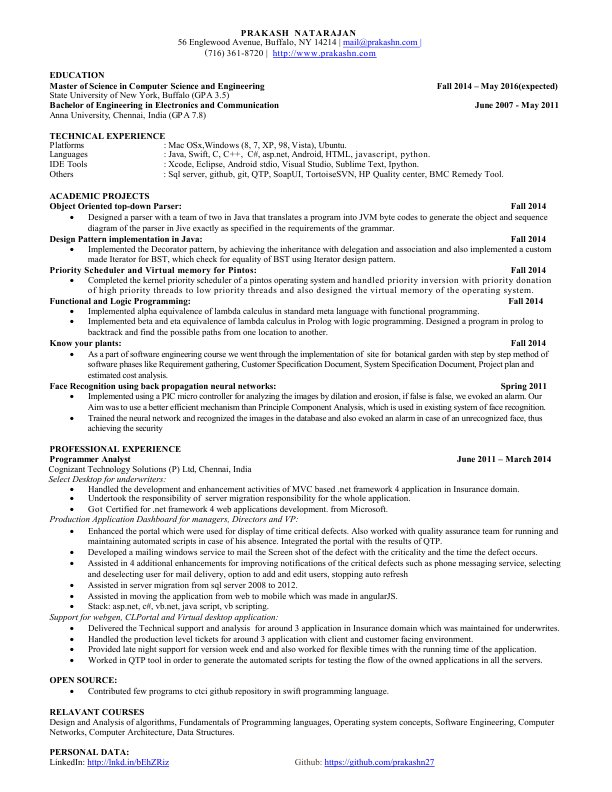
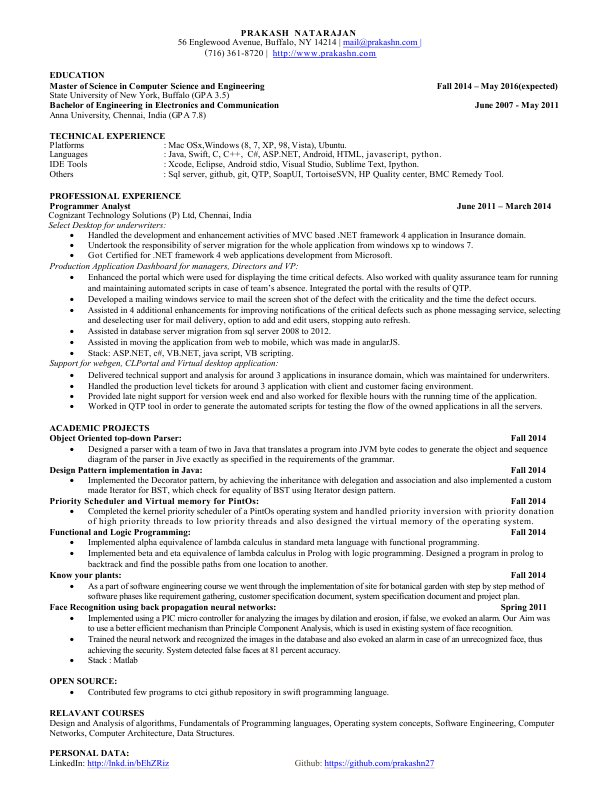
changed resume

Changed region(s): [[0.0621, 0.2424, 0.9003, 0.9697], [0.4346, 0.1818, 0.7141, 0.2121]]

diff --git a/Resume/Prakash_Natarajan_resume.htm b/Resume/Prakash_Natarajan_resume.htm
@@ -8,7 +8,7 @@
 
 body {margin-top: 0px;margin-left: 0px;}
 
-#page_1 {position:relative; overflow: hidden;margin: 36px 0px 31px 65px;padding: 0px;border: none;width: 751px;}
+#page_1 {position:relative; overflow: hidden;margin: 36px 0px 29px 65px;padding: 0px;border: none;width: 751px;}
 
 
 
@@ -28,66 +28,70 @@ body {margin-top: 0px;margin-left: 0px;}
 .ft11{font: bold 10px 'Times New Roman';line-height: 12px;}
 .ft12{font: 12px 'Times New Roman';line-height: 13px;}
 .ft13{font: 12px 'Times New Roman';line-height: 14px;}
-.ft14{font: bold 12px 'Times New Roman';line-height: 13px;}
-.ft15{font: 10px 'Times New Roman';line-height: 14px;}
-.ft16{font: italic 12px 'Times New Roman';line-height: 12px;}
-.ft17{font: italic 12px 'Times New Roman';line-height: 14px;}
-.ft18{font: 11px 'Times New Roman';color: #473b2c;line-height: 14px;}
-.ft19{font: 11px 'Times New Roman';text-decoration: underline;color: #0000ff;line-height: 14px;}
-.ft20{font: 11px 'Times New Roman';color: #0000ff;line-height: 14px;}
+.ft14{font: italic 12px 'Times New Roman';line-height: 12px;}
+.ft15{font: italic 12px 'Times New Roman';line-height: 13px;}
+.ft16{font: italic 12px 'Times New Roman';line-height: 14px;}
+.ft17{font: bold 12px 'Times New Roman';line-height: 13px;}
+.ft18{font: 11px 'Times New Roman';line-height: 14px;}
+.ft19{font: 11px 'Times New Roman';color: #473b2c;line-height: 14px;}
+.ft20{font: 11px 'Times New Roman';text-decoration: underline;color: #0000ff;line-height: 14px;}
+.ft21{font: 11px 'Times New Roman';color: #0000ff;line-height: 14px;}
 
 .p0{text-align: left;padding-left: 256px;margin-top: 0px;margin-bottom: 0px;}
 .p1{text-align: left;padding-left: 208px;padding-right: 253px;margin-top: 0px;margin-bottom: 0px;text-indent: -35px;}
 .p2{text-align: left;margin-top: 0px;margin-bottom: 0px;white-space: nowrap;}
 .p3{text-align: left;padding-left: 51px;margin-top: 0px;margin-bottom: 0px;white-space: nowrap;}
-.p4{text-align: left;padding-left: 98px;margin-top: 0px;margin-bottom: 0px;white-space: nowrap;}
-.p5{text-align: justify;padding-left: 52px;padding-right: 86px;margin-top: 0px;margin-bottom: 0px;}
-.p6{text-align: justify;padding-left: 52px;padding-right: 80px;margin-top: 0px;margin-bottom: 0px;}
-.p7{text-align: justify;padding-left: 52px;padding-right: 81px;margin-top: 0px;margin-bottom: 0px;}
-.p8{text-align: justify;padding-left: 53px;margin-top: 1px;margin-bottom: 0px;}
-.p9{text-align: justify;padding-left: 52px;padding-right: 92px;margin-top: 0px;margin-bottom: 0px;}
-.p10{text-align: left;padding-left: 52px;padding-right: 85px;margin-top: 0px;margin-bottom: 0px;}
-.p11{text-align: justify;padding-left: 52px;padding-right: 83px;margin-top: 2px;margin-bottom: 0px;}
-.p12{text-align: justify;padding-left: 52px;padding-right: 93px;margin-top: 0px;margin-bottom: 0px;}
-.p13{text-align: left;padding-left: 1px;margin-top: 11px;margin-bottom: 0px;}
-.p14{text-align: left;padding-left: 1px;margin-top: 0px;margin-bottom: 0px;}
-.p15{text-align: left;margin-top: 0px;margin-bottom: 0px;}
-.p16{text-align: justify;padding-left: 53px;margin-top: 0px;margin-bottom: 0px;}
-.p17{text-align: justify;padding-left: 52px;padding-right: 72px;margin-top: 1px;margin-bottom: 0px;}
-.p18{text-align: justify;padding-left: 52px;margin-top: 2px;margin-bottom: 0px;}
-.p19{text-align: justify;padding-left: 52px;padding-right: 68px;margin-top: 0px;margin-bottom: 0px;}
-.p20{text-align: justify;padding-left: 52px;margin-top: 0px;margin-bottom: 0px;}
-.p21{text-align: justify;padding-left: 53px;margin-top: 3px;margin-bottom: 0px;}
-.p22{text-align: left;padding-left: 1px;margin-top: 12px;margin-bottom: 0px;}
-.p23{text-align: left;padding-left: 1px;padding-right: 77px;margin-top: 1px;margin-bottom: 0px;}
+.p4{text-align: left;padding-left: 1px;margin-top: 13px;margin-bottom: 0px;}
+.p5{text-align: right;padding-right: 3px;margin-top: 0px;margin-bottom: 0px;white-space: nowrap;}
+.p6{text-align: left;padding-left: 433px;margin-top: 0px;margin-bottom: 0px;white-space: nowrap;}
+.p7{text-align: left;margin-top: 0px;margin-bottom: 0px;}
+.p8{text-align: justify;padding-left: 53px;margin-top: 0px;margin-bottom: 0px;}
+.p9{text-align: justify;padding-left: 53px;margin-top: 2px;margin-bottom: 0px;}
+.p10{text-align: left;padding-left: 1px;margin-top: 0px;margin-bottom: 0px;}
+.p11{text-align: justify;padding-left: 52px;padding-right: 72px;margin-top: 1px;margin-bottom: 0px;}
+.p12{text-align: justify;padding-left: 52px;margin-top: 1px;margin-bottom: 0px;}
+.p13{text-align: justify;padding-left: 52px;padding-right: 68px;margin-top: 0px;margin-bottom: 0px;}
+.p14{text-align: justify;padding-left: 52px;margin-top: 0px;margin-bottom: 0px;}
+.p15{text-align: justify;padding-left: 53px;margin-top: 1px;margin-bottom: 0px;}
+.p16{text-align: justify;padding-left: 52px;padding-right: 86px;margin-top: 0px;margin-bottom: 0px;}
+.p17{text-align: justify;padding-left: 52px;padding-right: 80px;margin-top: 0px;margin-bottom: 0px;}
+.p18{text-align: justify;padding-left: 52px;padding-right: 77px;margin-top: 0px;margin-bottom: 0px;}
+.p19{text-align: justify;padding-left: 52px;padding-right: 92px;margin-top: 0px;margin-bottom: 0px;}
+.p20{text-align: justify;padding-left: 52px;padding-right: 85px;margin-top: 2px;margin-bottom: 0px;}
+.p21{text-align: justify;padding-left: 52px;padding-right: 93px;margin-top: 1px;margin-bottom: 0px;}
+.p22{text-align: left;padding-left: 1px;margin-top: 11px;margin-bottom: 0px;}
+.p23{text-align: justify;padding-left: 53px;margin-top: 3px;margin-bottom: 0px;}
+.p24{text-align: left;padding-left: 1px;padding-right: 77px;margin-top: 2px;margin-bottom: 0px;}
 
 .td0{padding: 0px;margin: 0px;width: 152px;vertical-align: bottom;}
 .td1{padding: 0px;margin: 0px;width: 365px;vertical-align: bottom;}
 .td2{padding: 0px;margin: 0px;width: 162px;vertical-align: bottom;}
 .td3{padding: 0px;margin: 0px;width: 517px;vertical-align: bottom;}
 .td4{padding: 0px;margin: 0px;width: 527px;vertical-align: bottom;}
-.td5{padding: 0px;margin: 0px;width: 615px;vertical-align: bottom;}
-.td6{padding: 0px;margin: 0px;width: 47px;vertical-align: bottom;}
-.td7{padding: 0px;margin: 0px;width: 612px;vertical-align: bottom;}
-.td8{padding: 0px;margin: 0px;width: 602px;vertical-align: bottom;}
-.td9{padding: 0px;margin: 0px;width: 61px;vertical-align: bottom;}
-.td10{padding: 0px;margin: 0px;width: 327px;vertical-align: bottom;}
-.td11{padding: 0px;margin: 0px;width: 186px;vertical-align: bottom;}
+.td5{padding: 0px;margin: 0px;width: 112px;vertical-align: bottom;}
+.td6{padding: 0px;margin: 0px;width: 558px;vertical-align: bottom;}
+.td7{padding: 0px;margin: 0px;width: 615px;vertical-align: bottom;}
+.td8{padding: 0px;margin: 0px;width: 48px;vertical-align: bottom;}
+.td9{padding: 0px;margin: 0px;width: 47px;vertical-align: bottom;}
+.td10{padding: 0px;margin: 0px;width: 602px;vertical-align: bottom;}
+.td11{padding: 0px;margin: 0px;width: 61px;vertical-align: bottom;}
+.td12{padding: 0px;margin: 0px;width: 327px;vertical-align: bottom;}
+.td13{padding: 0px;margin: 0px;width: 186px;vertical-align: bottom;}
 
 .tr0{height: 16px;}
 .tr1{height: 14px;}
 .tr2{height: 12px;}
 .tr3{height: 13px;}
 .tr4{height: 27px;}
-.tr5{height: 29px;}
-.tr6{height: 15px;}
+.tr5{height: 15px;}
 
 .t0{width: 679px;margin-left: 1px;margin-top: 10px;font: 12px 'Times New Roman';}
-.t1{width: 662px;margin-left: 1px;font: bold 11px 'Times New Roman';}
-.t2{width: 659px;margin-left: 1px;font: bold 12px 'Times New Roman';}
-.t3{width: 662px;margin-left: 1px;font: bold 12px 'Times New Roman';}
-.t4{width: 663px;margin-left: 1px;font: bold 10px 'Times New Roman';}
-.t5{width: 513px;margin-left: 1px;margin-top: 8px;font: 11px 'Times New Roman';color: #473b2c;}
+.t1{width: 670px;font: 12px 'Times New Roman';}
+.t2{width: 663px;margin-left: 1px;margin-top: 10px;font: bold 12px 'Times New Roman';}
+.t3{width: 662px;margin-left: 1px;font: bold 11px 'Times New Roman';}
+.t4{width: 662px;margin-left: 1px;font: bold 12px 'Times New Roman';}
+.t5{width: 663px;margin-left: 1px;font: bold 10px 'Times New Roman';}
+.t6{width: 513px;margin-left: 1px;margin-top: 7px;font: 11px 'Times New Roman';color: #473b2c;}
 
 </STYLE>
 </HEAD>
@@ -131,8 +135,7 @@ body {margin-top: 0px;margin-left: 0px;}
 </TR>
 <TR>
 	<TD class="tr2 td0"><P class="p2 ft10">Languages</P></TD>
-	<TD class="tr2 td1"><P class="p2 ft10">: Java, Swift, C, C++, C#, asp.net, Android, HTML, javascript, python.</P></TD>
-	<TD class="tr2 td2"><P class="p2 ft7">&nbsp;</P></TD>
+	<TD colspan=2 class="tr2 td4"><P class="p2 ft10">: Java, Swift, C, C++, C#, ASP.NET, Android, HTML, javascript, python.</P></TD>
 </TR>
 <TR>
 	<TD class="tr1 td0"><P class="p2 ft13">IDE Tools</P></TD>
@@ -140,88 +143,98 @@ body {margin-top: 0px;margin-left: 0px;}
 	<TD class="tr1 td2"><P class="p2 ft7">&nbsp;</P></TD>
 </TR>
 <TR>
-	<TD class="tr3 td0"><P class="p2 ft12">Others</P></TD>
-	<TD colspan=2 class="tr3 td4"><P class="p2 ft12">: Sql server, github, git, QTP, SoapUI, TortoiseSVN, HP Quality center, BMC Remedy Tool.</P></TD>
-</TR>
-<TR>
-	<TD class="tr5 td0"><P class="p2 ft6">ACADEMIC PROJECTS</P></TD>
-	<TD class="tr5 td1"><P class="p2 ft7">&nbsp;</P></TD>
-	<TD class="tr5 td2"><P class="p2 ft7">&nbsp;</P></TD>
-</TR>
-<TR>
-	<TD colspan=2 class="tr1 td3"><P class="p2 ft8">Object Oriented <NOBR>top-down</NOBR> Parser:</P></TD>
-	<TD class="tr1 td2"><P class="p4 ft8">Fall 2014</P></TD>
+	<TD class="tr5 td0"><P class="p2 ft3">Others</P></TD>
+	<TD colspan=2 class="tr5 td4"><P class="p2 ft3">: Sql server, github, git, QTP, SoapUI, TortoiseSVN, HP Quality center, BMC Remedy Tool.</P></TD>
 </TR>
 </TABLE>
-<P class="p5 ft13">Designed a parser with a team of two in Java that translates a program into JVM byte codes to generate the object and sequence diagram of the parser in Jive exactly as specified in the requirements of the grammar.</P>
+<P class="p4 ft8">PROFESSIONAL EXPERIENCE</P>
 <TABLE cellpadding=0 cellspacing=0 class="t1">
 <TR>
-	<TD class="tr1 td5"><P class="p2 ft8">Design Pattern implementation in Java:</P></TD>
-	<TD class="tr1 td6"><P class="p2 ft9">Fall 2014</P></TD>
+	<TD class="tr1 td5"><P class="p5 ft8">Programmer Analyst</P></TD>
+	<TD class="tr1 td6"><P class="p6 ft9">June 2011 – March 2014</P></TD>
 </TR>
-</TABLE>
-<P class="p6 ft13">Implemented the Decorator pattern, by achieving the inheritance with delegation and association and also implemented a custom made Iterator for BST, which check for equality of BST using Iterator design pattern.</P>
-<TABLE cellpadding=0 cellspacing=0 class="t1">
 <TR>
-	<TD class="tr1 td5"><P class="p2 ft8">Priority Scheduler and Virtual memory for Pintos:</P></TD>
-	<TD class="tr1 td6"><P class="p2 ft9">Fall 2014</P></TD>
+	<TD class="tr2 td5"><P class="p5 ft10">Cognizant Technology</P></TD>
+	<TD class="tr2 td6"><P class="p2 ft10">Solutions (P) Ltd, Chennai, India</P></TD>
 </TR>
 </TABLE>
-<P class="p7 ft13">Completed the kernel priority scheduler of a pintos operating system and handled priority inversion with priority donation of high priority threads to low priority threads and also designed the virtual memory of the operating system.</P>
+<P class="p7 ft14">Select Desktop for underwriters:</P>
+<P class="p8 ft12">Handled the development and enhancement activities of MVC based .NET framework 4 application in Insurance domain.</P>
+<P class="p8 ft12">Undertook the responsibility of server migration for the whole application from windows xp to windows 7.</P>
+<P class="p9 ft3">Got Certified for .NET framework 4 web applications development from Microsoft.</P>
+<P class="p10 ft15">Production Application Dashboard for managers, Directors and VP:</P>
+<P class="p11 ft13">Enhanced the portal which were used for displaying the time critical defects. Also worked with quality assurance team for running and maintaining automated scripts in case of team’s absence. Integrated the portal with the results of QTP.</P>
+<P class="p12 ft13">Developed a mailing windows service to mail the screen shot of the defect with the criticality and the time the defect occurs.</P>
+<P class="p13 ft13">Assisted in 4 additional enhancements for improving notifications of the critical defects such as phone messaging service, selecting and deselecting user for mail delivery, option to add and edit users, stopping auto refresh.</P>
+<P class="p12 ft13">Assisted in database server migration from sql server 2008 to 2012.</P>
+<P class="p14 ft13">Assisted in moving the application from web to mobile, which was made in angularJS.</P>
+<P class="p8 ft13">Stack: ASP.NET, c#, VB.NET, java script, VB scripting.</P>
+<P class="p10 ft16">Support for webgen, CLPortal and Virtual desktop application:</P>
+<P class="p9 ft3">Delivered technical support and analysis for around 3 applications in insurance domain, which was maintained for underwriters.</P>
+<P class="p8 ft12">Handled the production level tickets for around 3 application with client and customer facing environment.</P>
+<P class="p14 ft13">Provided late night support for version week end and also worked for flexible hours with the running time of the application.</P>
+<P class="p15 ft3">Worked in QTP tool in order to generate the automated scripts for testing the flow of the owned applications in all the servers.</P>
 <TABLE cellpadding=0 cellspacing=0 class="t2">
 <TR>
-	<TD class="tr3 td7"><P class="p2 ft14">Functional and Logic Programming:</P></TD>
-	<TD class="tr3 td6"><P class="p2 ft9">Fall 2014</P></TD>
+	<TD class="tr0 td7"><P class="p2 ft6">ACADEMIC PROJECTS</P></TD>
+	<TD class="tr0 td8"><P class="p2 ft7">&nbsp;</P></TD>
+</TR>
+<TR>
+	<TD class="tr1 td7"><P class="p2 ft8">Object Oriented <NOBR>top-down</NOBR> Parser:</P></TD>
+	<TD class="tr1 td8"><P class="p2 ft8">Fall 2014</P></TD>
 </TR>
 </TABLE>
-<P class="p8 ft3">Implemented alpha equivalence of lambda calculus in standard meta language with functional programming.</P>
-<P class="p9 ft13">Implemented beta and eta equivalence of lambda calculus in Prolog with logic programming. Designed a program in prolog to backtrack and find the possible paths from one location to another.</P>
+<P class="p16 ft13">Designed a parser with a team of two in Java that translates a program into JVM byte codes to generate the object and sequence diagram of the parser in Jive exactly as specified in the requirements of the grammar.</P>
 <TABLE cellpadding=0 cellspacing=0 class="t3">
 <TR>
-	<TD class="tr3 td5"><P class="p2 ft14">Know your plants:</P></TD>
-	<TD class="tr3 td6"><P class="p2 ft9">Fall 2014</P></TD>
+	<TD class="tr1 td7"><P class="p2 ft8">Design Pattern implementation in Java:</P></TD>
+	<TD class="tr1 td9"><P class="p2 ft9">Fall 2014</P></TD>
 </TR>
 </TABLE>
-<P class="p10 ft13">As a part of software engineering course we went through the implementation of site for botanical garden with step by step method of software phases like Requirement gathering, Customer Specification Document, System Specification Document, Project plan and estimated cost analysis.</P>
+<P class="p17 ft13">Implemented the Decorator pattern, by achieving the inheritance with delegation and association and also implemented a custom made Iterator for BST, which check for equality of BST using Iterator design pattern.</P>
 <TABLE cellpadding=0 cellspacing=0 class="t4">
 <TR>
-	<TD class="tr6 td8"><P class="p2 ft6">Face Recognition using back propagation neural networks:</P></TD>
-	<TD class="tr6 td9"><P class="p2 ft11">Spring 2011</P></TD>
+	<TD class="tr3 td7"><P class="p2 ft17">Priority Scheduler and Virtual memory for PintOs:</P></TD>
+	<TD class="tr3 td9"><P class="p2 ft9">Fall 2014</P></TD>
 </TR>
 </TABLE>
-<P class="p11 ft15">Implemented using a PIC micro controller for analyzing the images by dilation and erosion, if false is false, we evoked an alarm. Our Aim was to use a better efficient mechanism than Principle Component Analysis, which is used in existing system of face recognition.</P>
-<P class="p12 ft3">Trained the neural network and recognized the images in the database and also evoked an alarm in case of an unrecognized face, thus achieving the security</P>
-<P class="p13 ft8">PROFESSIONAL EXPERIENCE</P>
-<P class="p14 ft14">Programmer Analyst June 2011 – March 2014</P>
-<P class="p15 ft12">Cognizant Technology Solutions (P) Ltd, Chennai, India</P>
-<P class="p15 ft16">Select Desktop for underwriters:</P>
-<P class="p16 ft13">Handled the development and enhancement activities of MVC based .net framework 4 application in Insurance domain.</P>
-<P class="p16 ft12">Undertook the responsibility of server migration responsibility for the whole application.</P>
-<P class="p16 ft13">Got Certified for .net framework 4 web applications development. from Microsoft.</P>
-<P class="p14 ft17">Production Application Dashboard for managers, Directors and VP:</P>
-<P class="p17 ft13">Enhanced the portal which were used for display of time critical defects. Also worked with quality assurance team for running and maintaining automated scripts in case of his absence. Integrated the portal with the results of QTP.</P>
-<P class="p18 ft3">Developed a mailing windows service to mail the Screen shot of the defect with the criticality and the time the defect occurs.</P>
-<P class="p19 ft13">Assisted in 4 additional enhancements for improving notifications of the critical defects such as phone messaging service, selecting and deselecting user for mail delivery, option to add and edit users, stopping auto refresh</P>
-<P class="p20 ft3">Assisted in server migration from sql server 2008 to 2012.</P>
-<P class="p20 ft13">Assisted in moving the application from web to mobile which was made in angularJS.</P>
-<P class="p16 ft13">Stack: asp.net, c#, vb.net, java script, vb scripting.</P>
-<P class="p14 ft17">Support for webgen, CLPortal and Virtual desktop application:</P>
-<P class="p8 ft3">Delivered the Technical support and analysis for around 3 application in Insurance domain which was maintained for underwrites.</P>
-<P class="p16 ft13">Handled the production level tickets for around 3 application with client and customer facing environment.</P>
-<P class="p20 ft12">Provided late night support for version week end and also worked for flexible times with the running time of the application.</P>
-<P class="p16 ft3">Worked in QTP tool in order to generate the automated scripts for testing the flow of the owned applications in all the servers.</P>
-<P class="p13 ft14">OPEN SOURCE:</P>
-<P class="p21 ft3">Contributed few programs to ctci github repository in swift programming language.</P>
-<P class="p22 ft8">RELAVANT COURSES</P>
-<P class="p23 ft3">Design and Analysis of algorithms, Fundamentals of Programming languages, Operating system concepts, Software Engineering, Computer Networks, Computer Architecture, Data Structures.</P>
+<P class="p18 ft13">Completed the kernel priority scheduler of a PintOs operating system and handled priority inversion with priority donation of high priority threads to low priority threads and also designed the virtual memory of the operating system.</P>
+<TABLE cellpadding=0 cellspacing=0 class="t3">
+<TR>
+	<TD class="tr1 td7"><P class="p2 ft8">Functional and Logic Programming:</P></TD>
+	<TD class="tr1 td9"><P class="p2 ft9">Fall 2014</P></TD>
+</TR>
+</TABLE>
+<P class="p15 ft3">Implemented alpha equivalence of lambda calculus in standard meta language with functional programming.</P>
+<P class="p19 ft13">Implemented beta and eta equivalence of lambda calculus in Prolog with logic programming. Designed a program in prolog to backtrack and find the possible paths from one location to another.</P>
+<TABLE cellpadding=0 cellspacing=0 class="t4">
+<TR>
+	<TD class="tr3 td7"><P class="p2 ft17">Know your plants:</P></TD>
+	<TD class="tr3 td9"><P class="p2 ft9">Fall 2014</P></TD>
+</TR>
+</TABLE>
+<P class="p20 ft18">As a part of software engineering course we went through the implementation of site for botanical garden with step by step method of software phases like requirement gathering, customer specification document, system specification document and project plan.</P>
 <TABLE cellpadding=0 cellspacing=0 class="t5">
 <TR>
-	<TD class="tr6 td10"><P class="p2 ft6">PERSONAL DATA:</P></TD>
-	<TD class="tr6 td11"><P class="p2 ft7">&nbsp;</P></TD>
+	<TD class="tr3 td10"><P class="p2 ft17">Face Recognition using back propagation neural networks:</P></TD>
+	<TD class="tr3 td11"><P class="p2 ft11">Spring 2011</P></TD>
+</TR>
+</TABLE>
+<P class="p18 ft13">Implemented using a PIC micro controller for analyzing the images by dilation and erosion, if false, we evoked an alarm. Our Aim was to use a better efficient mechanism than Principle Component Analysis, which is used in existing system of face recognition.</P>
+<P class="p21 ft13">Trained the neural network and recognized the images in the database and also evoked an alarm in case of an unrecognized face, thus achieving the security. System detected false faces at 81 percent accuracy.</P>
+<P class="p9 ft3">Stack : Matlab</P>
+<P class="p22 ft17">OPEN SOURCE:</P>
+<P class="p23 ft3">Contributed few programs to ctci github repository in swift programming language.</P>
+<P class="p22 ft17">RELAVANT COURSES</P>
+<P class="p24 ft3">Design and Analysis of algorithms, Fundamentals of Programming languages, Operating system concepts, Software Engineering, Computer Networks, Computer Architecture, Data Structures.</P>
+<TABLE cellpadding=0 cellspacing=0 class="t6">
+<TR>
+	<TD class="tr0 td12"><P class="p2 ft6">PERSONAL DATA:</P></TD>
+	<TD class="tr0 td13"><P class="p2 ft7">&nbsp;</P></TD>
 </TR>
 <TR>
-	<TD class="tr6 td10"><P class="p2 ft2"><SPAN class="ft3">LinkedIn: </SPAN><SPAN class="ft1">http://lnkd.in/bEhZRiz</SPAN></P></TD>
-	<TD class="tr6 td11"><P class="p2 ft20"><SPAN class="ft18">Github: </SPAN><SPAN class="ft19">https://github.com/prakashn27</SPAN></P></TD>
+	<TD class="tr0 td12"><P class="p2 ft2"><SPAN class="ft3">LinkedIn: </SPAN><SPAN class="ft1">http://lnkd.in/bEhZRiz</SPAN></P></TD>
+	<TD class="tr0 td13"><P class="p2 ft21"><SPAN class="ft19">Github: </SPAN><SPAN class="ft20">https://github.com/prakashn27</SPAN></P></TD>
 </TR>
 </TABLE>
 </DIV>
